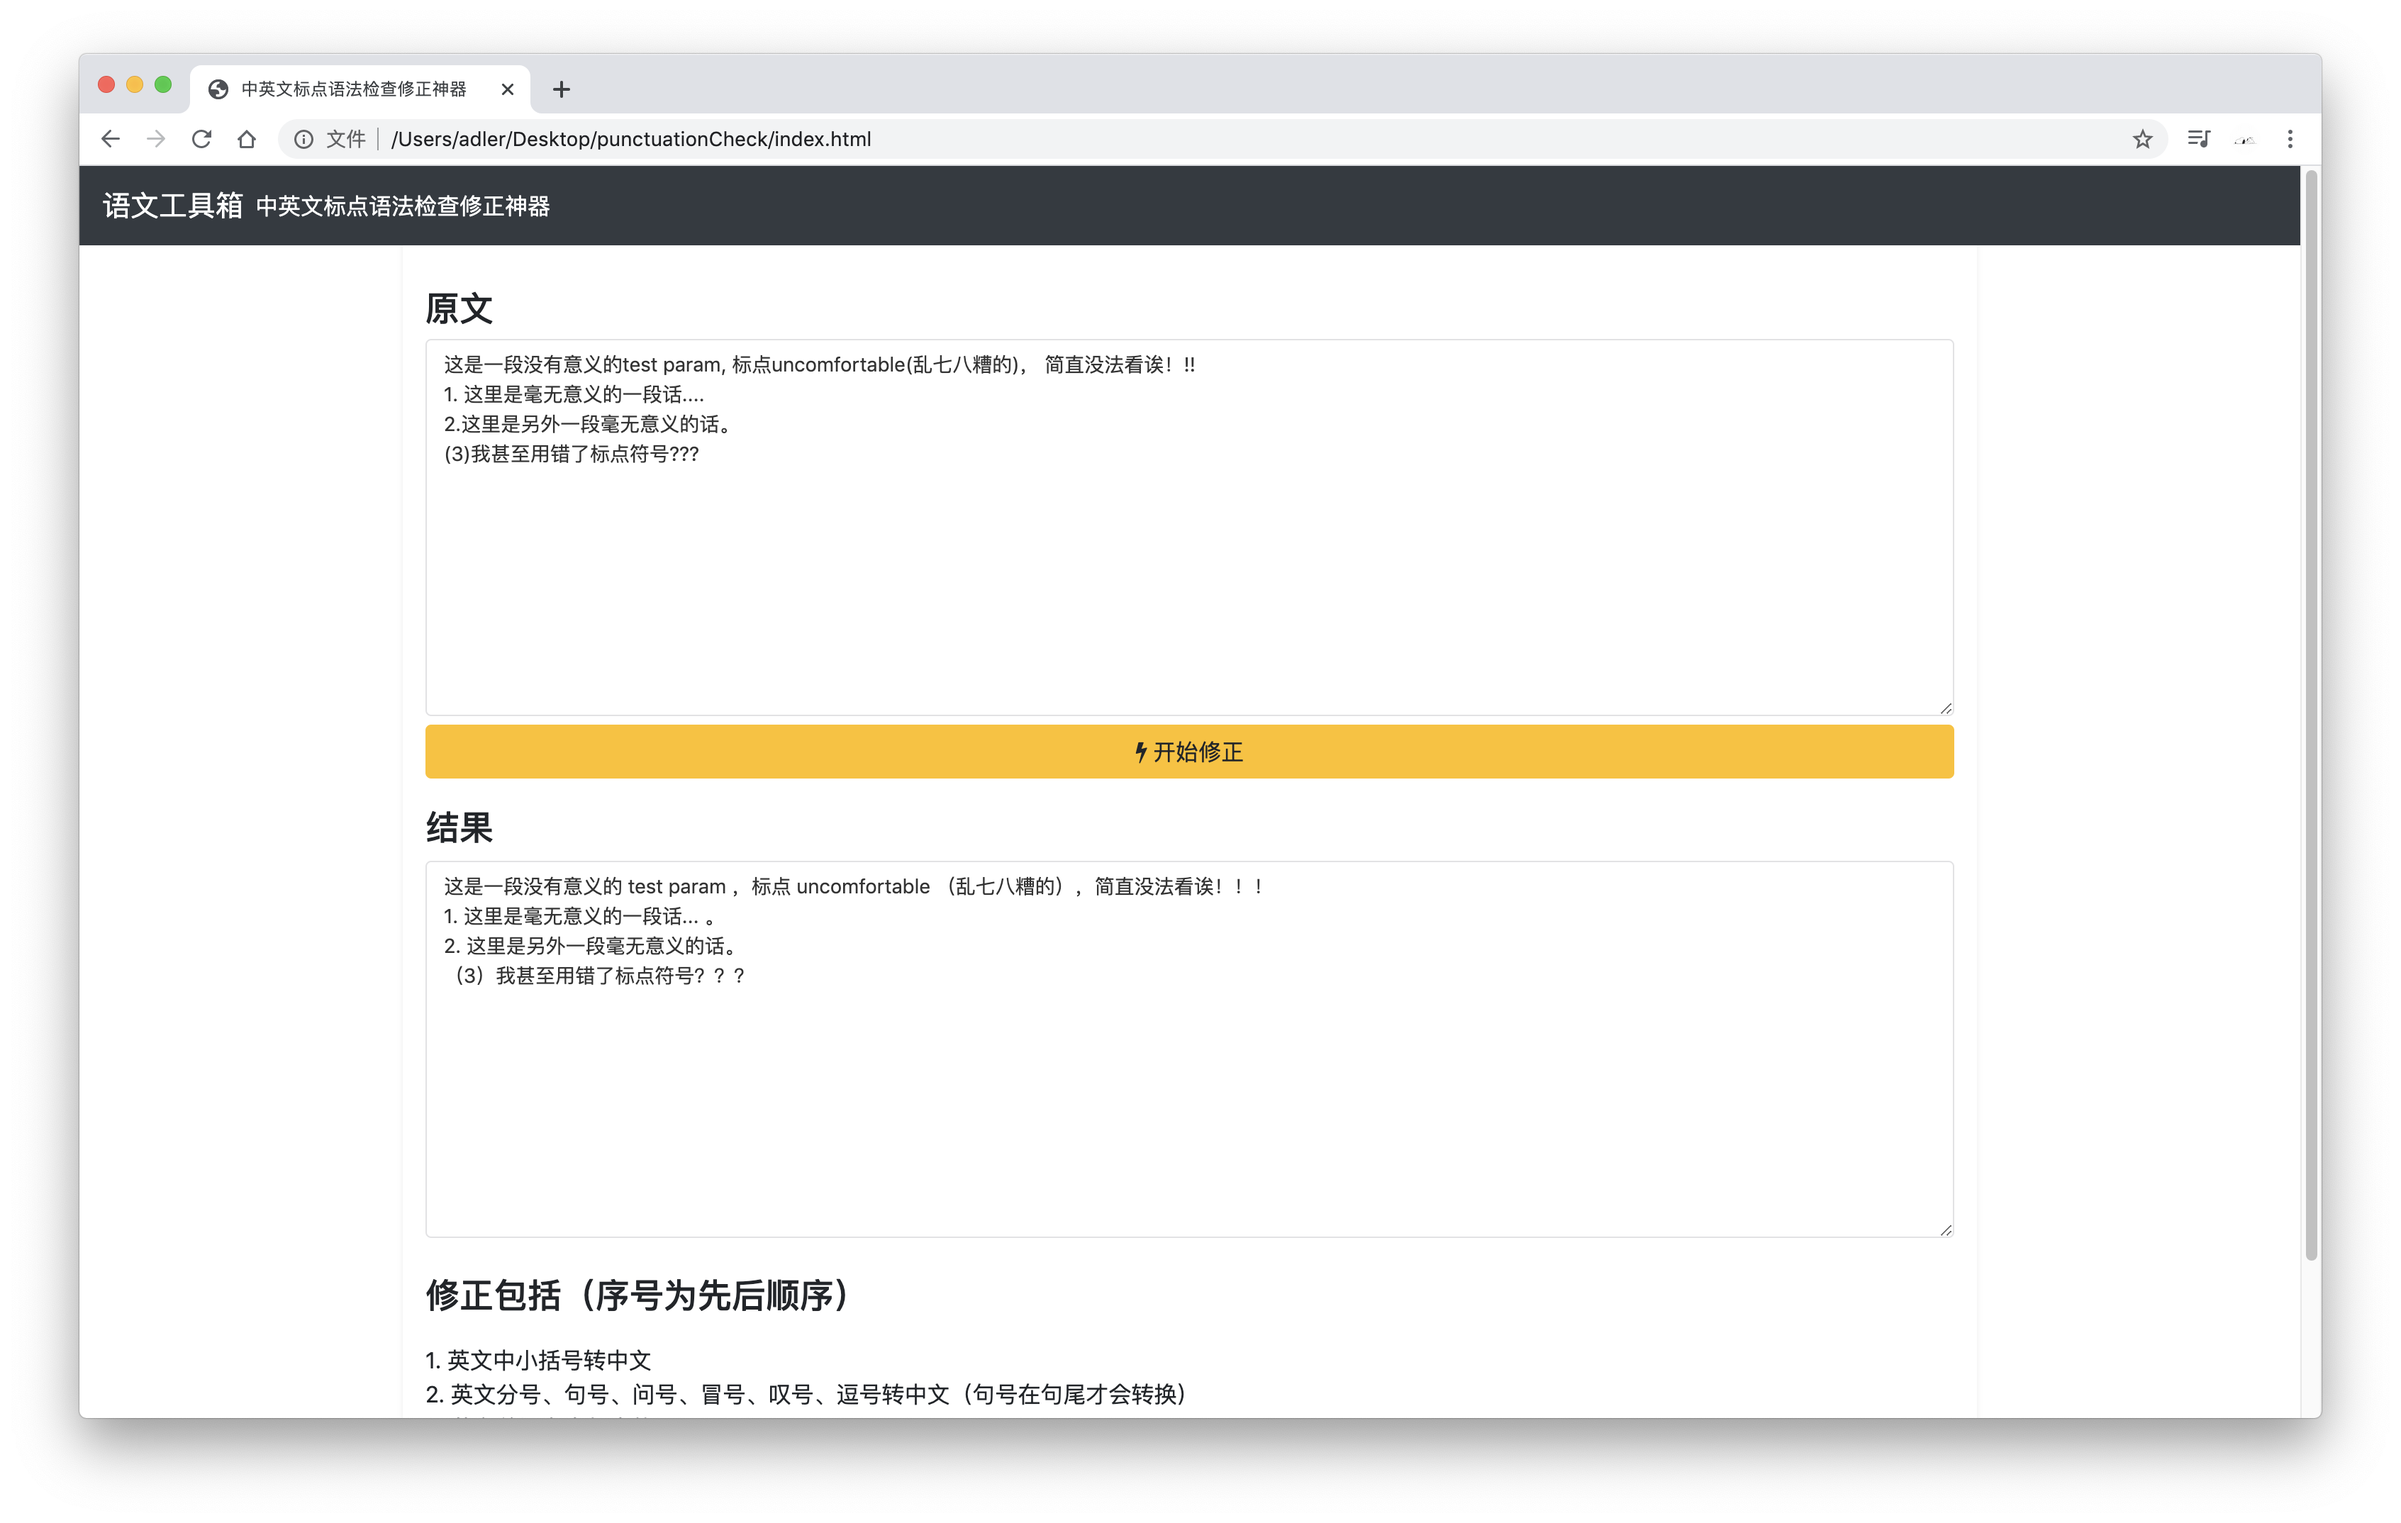
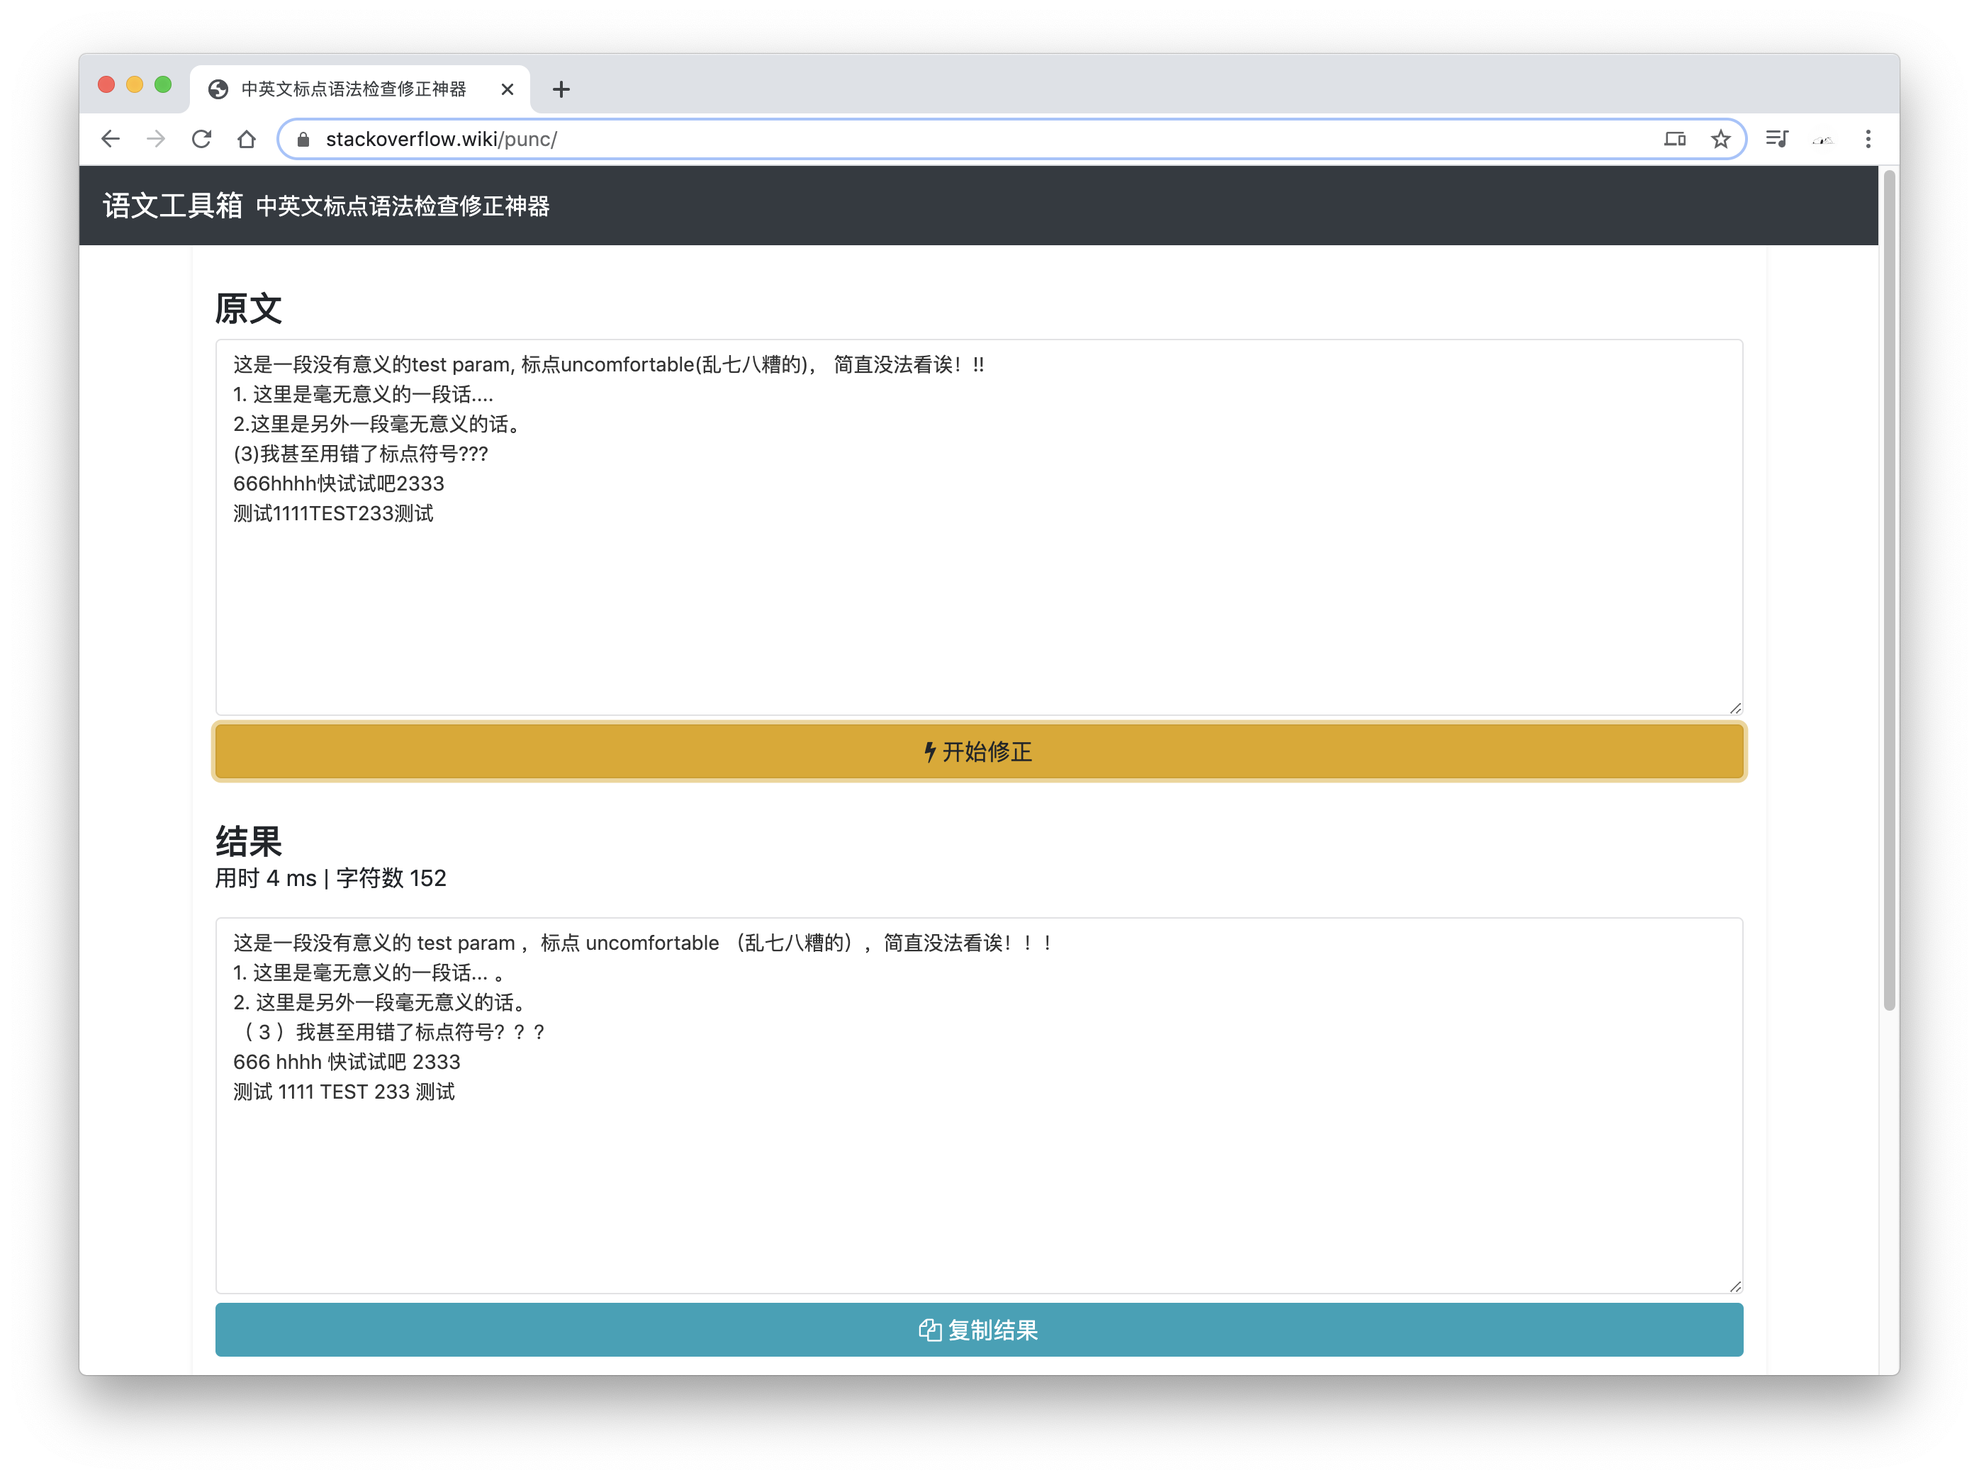
:art: min.js

diff --git a/punctuationCheck.min.js b/punctuationCheck.min.js
@@ -1,1 +1,1 @@
[1 lines of base64/hex data omitted]
+new ClipboardJS('#copy');$('#before').val('这是一段没有意义的test param, 标点uncomfortable(乱七八糟的)， 简直没法看诶！!!\n1. 这里是毫无意义的一段话....\n2.这里是另外一段毫无意义的话。\n(3)我甚至用错了标点符号???\n666hhhh快试试吧2333\n测试1111TEST233测试');$('#copy').click(function(){var srcBtnCopy=$('#copy').html();$('#copy').html('<i class="fa fa-check"></i> 已复制');setTimeout(function(){$('#copy').html(srcBtnCopy)},2000)});$('#start').click(function(){var srcBtnHtml=$('#start').html();$('#start').html('<i class="fa fa-cog fa-spin"></i> 正在修正');setTimeout(function(){var input=$('#before').val();var output='';var start=Date.now();output=input.replace(/(\()/g,"（");output=output.replace(/(\))/g,"）");output=output.replace(/(\[)/g,"【");output=output.replace(/(\])/g,"】");output=output.replace(/(\;)/g,"；");output=output.replace(/(\.\n)/g,`。\n`);output=output.replace(/(\?)/g,"？");output=output.replace(/(\:)/g,"：");output=output.replace(/(\!)/g,"！");output=output.replace(/(\,)/g,"，");output=output.replace(/([^\s\d])([0-9]+)(\n)/g,"$1 $2$3");output=output.replace(/(\n)([0-9]+)([^\s\d\.])/g,"$1$2 $3");output=output.replace(/([^\s\d])([0-9]+)$/g,"$1 $2");output=output.replace(/^([0-9]+)([^\s\d\.])/g,"$1 $2");output=output.replace(/([^\s\d])(\d+)([^\s\d])/g,"$1 $2 $3");output=output.replace(/( )(\b[a-zA-Z]+\b)([^\s])/g,"$1$2 $3");output=output.replace(/([^\s])(\b[a-zA-Z]+\b)( )/g,"$1 $2$3");output=output.replace(/([^\s])(\b[a-zA-Z]+\b)(\n)/g,"$1 $2$3");output=output.replace(/([^\s])(\b[a-zA-Z]+\b)$/g,"$1 $2");output=output.replace(/^(\b[a-zA-Z]+\b)([^\s])/g,"$1 $2");output=output.replace(/(\n)(\b[a-zA-Z]+\b)([^\s])/g,"$1$2 $3");output=output.replace(/([^\s])(\b[a-zA-Z]+\b)([^\s])/g,"$1 $2 $3");output=output.replace(/([^\s])(\b[a-zA-Z]+\b)([^\s])/g,"$1 $2 $3");output=output.replace(/([\；|\。|\？|\：|\！|\，])( )/g,"$1");output=output.replace(/([\.])([^\s\.])/g,"$1 $2");output=output.replace(/　/g," ");output=output.replace(/  /g," ");output=output.replace(/　/g," ");output=output.replace(/  /g," ");output=output.replace(/([^\s\'])(\')( )/g,"$1 $2$3");output=output.replace(/( )(\')([^\s\'])/g,"$1$2 $3");output=output.replace(/^(\')([^\s\'])/g,"$1 $2");output=output.replace(/([^\s\'])(\')$/g,"$1 $2");output=output.replace(/([^\s\'])(\')([^\s\'])/g,"$1 $2 $3");output=output.replace(/([^\s\"])(\")( )/g,"$1 $2$3");output=output.replace(/( )(\")([^\s\"])/g,"$1$2 $3");output=output.replace(/^(\")([^\s\"])/g,"$1 $2");output=output.replace(/([^\s\"])(\")$/g,"$1 $2");output=output.replace(/([^\s\"])(\")([^\s\"])/g,"$1 $2 $3");var end=Date.now()-start;$('#time').html('用时 '+end+' ms | 字符数 '+output.length);$('#after').val(output);$('#start').html(srcBtnHtml)},500)});
